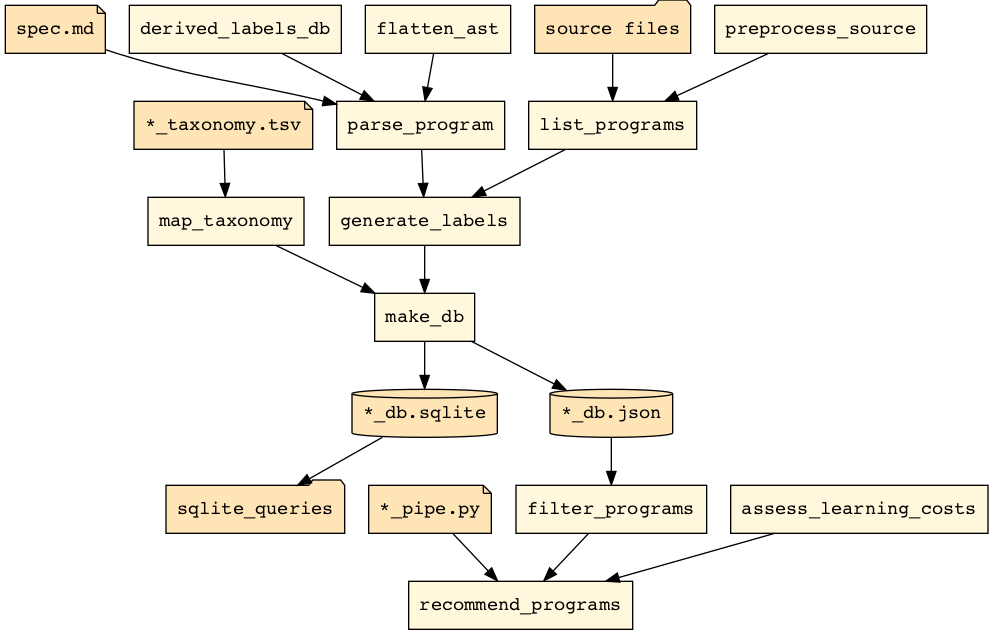
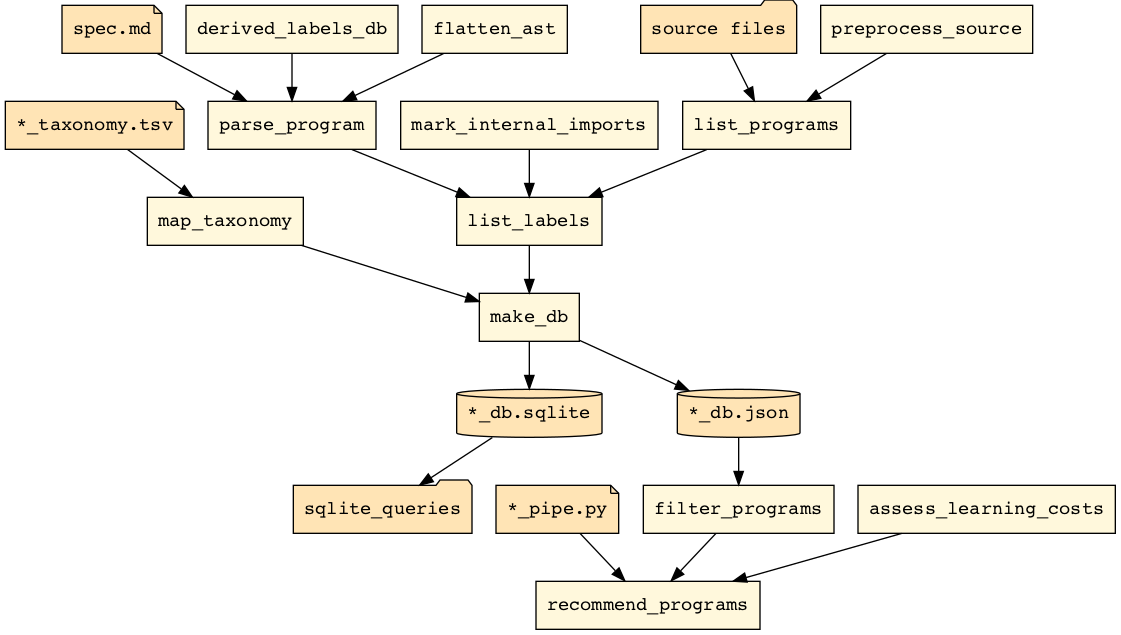
rename generate_labels into list_labels

diff --git a/tests/test_list_labels.py b/tests/test_list_labels.py
@@ -6,7 +6,7 @@ import regex
 
 import context
 from make_snapshot import make_snapshot
-from paroxython.generate_labels import generate_labelled_programs, generate_labelled_sources
+from paroxython.list_labels import list_labelled_programs, list_labelled_sources
 from paroxython.user_types import Span, ProgramName
 
 
@@ -21,15 +21,15 @@ class ProgramEncoder(json.JSONEncoder):
         return json.JSONEncoder.default(self, obj)
 
 
-def test_generate_labelled_programs(capsys):
-    result = generate_labelled_programs(Path("tests/data/simple"))
+def test_list_labelled_programs(capsys):
+    result = list_labelled_programs(Path("tests/data/simple"))
     text = json.dumps(result, cls=ProgramEncoder, indent=2)
     text = regex.sub(r"\s*\[\s+(\d+),\s+(\d+)\s+\](,?)\s+", r"[\1,\2]\3", text)
     make_snapshot(Path("tests/snapshots/simple_labelled_programs.json"), text, capsys)
 
 
-def test_generate_labelled_sources(capsys):
-    chunks = list(generate_labelled_sources(Path("tests/data/simple")))
+def test_list_labelled_sources(capsys):
+    chunks = list(list_labelled_sources(Path("tests/data/simple")))
     result = []
     for chunk in chunks:
         if chunk.startswith("#"):

diff --git a/paroxython/list_labels.py b/paroxython/list_labels.py
@@ -9,7 +9,7 @@ from parse_program import ProgramParser
 from mark_internal_imports import InternalImportsMarker
 
 
-def generate_labelled_sources(directory: Path, *args, **kargs) -> List[Source]:
+def list_labelled_sources(directory: Path, *args, **kargs) -> List[Source]:
     """For each program, yield its source with its labels in comment."""
     result = []
     programs = list_programs(directory, *args, **kargs)
@@ -32,7 +32,7 @@ def generate_labelled_sources(directory: Path, *args, **kargs) -> List[Source]:
     return result
 
 
-def generate_labelled_programs(directory: Path, *args, **kargs) -> Programs:
+def list_labelled_programs(directory: Path, *args, **kargs) -> Programs:
     """For each program, yield its label list, lexicographically sorted."""
     result = []
     programs = list_programs(directory, *args, **kargs)
@@ -58,5 +58,5 @@ def generate_labelled_programs(directory: Path, *args, **kargs) -> Programs:
 
 
 if __name__ == "__main__":
-    for result in generate_labelled_sources(Path("../Python/project_euler")):
+    for result in list_labelled_sources(Path("../Python/project_euler")):
         print(result)

diff --git a/paroxython/make_db.py b/paroxython/make_db.py
@@ -7,7 +7,7 @@ from typing import List, Optional, Tuple, Union, overload
 
 import regex  # type: ignore
 
-from generate_labels import generate_labelled_programs
+from list_labels import list_labelled_programs
 from goodies import add_line_numbers
 from map_taxonomy import Taxonomy
 from user_types import (
@@ -29,7 +29,7 @@ class Database:
         """collect all infos pertaining to the programs, the labels and the taxons."""
         self.default_json_db_path = directory.parent / f"{directory.name}_db.json"
         self.default_sqlite_db_path = directory.parent / f"{directory.name}_db.sqlite"
-        programs: List[Program] = generate_labelled_programs(directory, *args, **kargs)
+        programs: List[Program] = list_labelled_programs(directory, *args, **kargs)
         program_taxons: ProgramTaxons = dict(Taxonomy()(programs))
 
         get_timestamp = lambda path: str(datetime.fromtimestamp(path.stat().st_mtime))

diff --git a/tests/test_map_taxonomy.py b/tests/test_map_taxonomy.py
@@ -6,7 +6,7 @@ import pytest
 
 import context
 from make_snapshot import make_snapshot
-from paroxython.generate_labels import generate_labelled_programs
+from paroxython.list_labels import list_labelled_programs
 from paroxython.map_taxonomy import Taxonomy
 from paroxython.span import Span
 from paroxython.user_types import Label, Program
@@ -92,7 +92,7 @@ def test_call():
 def test_snapshot_simple_taxons(capsys):
     taxonomy = Taxonomy()
     acc = {}
-    programs = generate_labelled_programs(Path("tests/data/simple"))
+    programs = list_labelled_programs(Path("tests/data/simple"))
     for (path, taxons) in taxonomy(programs).items():
         acc[str(path)] = {name: " ".join(map(str, sorted(set(spans)))) for (name, spans) in taxons}
     result = json.dumps(acc, indent=2)

diff --git a/tests/test_update_snapshots.py b/tests/test_update_snapshots.py
@@ -4,7 +4,7 @@ import pytest
 
 import context
 from make_snapshot import make_snapshot
-from paroxython.generate_labels import generate_labelled_sources
+from paroxython.list_labels import list_labelled_sources
 
 
 def test_update_snapshots(capsys):
@@ -21,5 +21,5 @@ def test_update_snapshots(capsys):
             output_path = Path(path.parent, "snapshot_" + path.parts[-1] + ".py")
         else:
             output_path = Path("tests/snapshots", "-".join(path.parts[-2:]) + ".py")
-        acc = [result for result in generate_labelled_sources(path)]
+        acc = [result for result in list_labelled_sources(path)]
         make_snapshot(output_path, "\n".join(acc), capsys)

diff --git a/paroxython/map_taxonomy.py b/paroxython/map_taxonomy.py
@@ -92,10 +92,10 @@ class Taxonomy:
 
 
 if __name__ == "__main__":
-    generate_labelled_programs = __import__("generate_labels").generate_labelled_programs
+    list_labelled_programs = __import__("list_labels").list_labelled_programs
     chain = __import__("itertools").chain
     taxonomy = Taxonomy()
-    programs = generate_labelled_programs(Path("../Python/project_euler"))
+    programs = list_labelled_programs(Path("../Python/project_euler"))
     for (_, taxons) in taxonomy(programs).items():
         if not taxons:
             continue

diff --git a/paroxython/list_programs.py b/paroxython/list_programs.py
@@ -26,7 +26,7 @@ def list_programs(directory: Path, strategy="strip_docs") -> Programs:
     - its Source,
     - the hints scheduled for addition or deletion.
 
-    Its labels will later be populated by "generate_labels.py".
+    Its labels will later be populated by "list_labels.py".
     """
     result = []
     cleanup = cleanup_factory(strategy)
